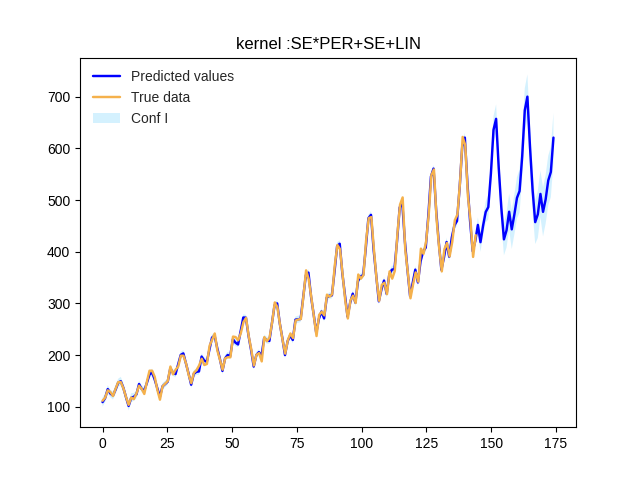
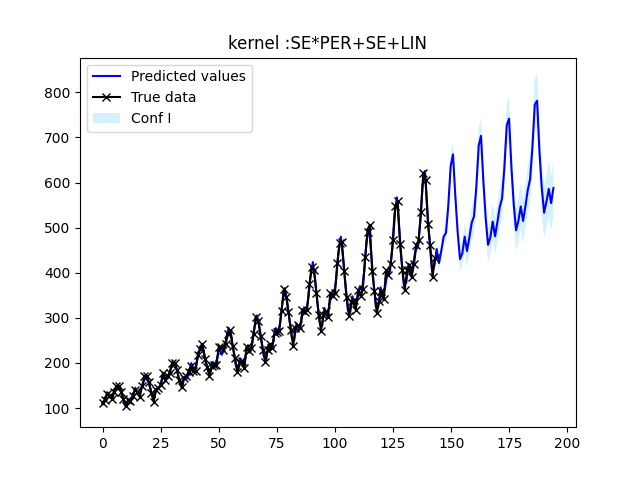
memory profilage

diff --git a/training.py b/training.py
@@ -225,8 +225,6 @@ def single_model(X_train,Y_train,X_s,kernel,OPTIMIZER=tf.optimizers.Adam(learnin
 
 
 
-
-
 def launch_analysis(X_train,Y_train,X_s,nb_restart=15,nb_iter=2,do_plot=False,save_model=False,prune=False,OPTIMIZER= tf.optimizers.Adam(0.001), \
                         verbose=False,nb_by_step=None,loop_size=10,experimental_multiprocessing=False,reduce_data=False,straigth=True,depth=5,initialisation_restart=5,GPY=False,mode="lfbgs",use_changepoint=False):
     '''
@@ -326,17 +324,25 @@ def griddy_search(X_train,Y_train,X_s,nb_restart,nb_iter,nb_by_step,i,prune,loop
                                     verbose,OPTIMIZER,initialisation_restart,GPY=GPY,depth=depth,mode=mode,parralelize_code=parralelize_code,use_changepoint=use_changepoint)
     return model,kernels
 
+
+def generator_params(X_train,Y_train,X_s,combi,BEST_MODELS,nb_restart,nb_iter,nb_by_step,prune,verbose,OPTIMIZER,initialisation_restart,GPY,mode) :
+    for comb in combi :
+        yield [X_train,Y_train,X_s,comb,BEST_MODELS,nb_restart,nb_iter,nb_by_step,prune,verbose,OPTIMIZER,mode,False,False,initialisation_restart,GPY]
+
 def parralelize(X_train,Y_train,X_s,combi,BEST_MODELS,nb_restart,nb_iter,nb_by_step,prune,verbose,OPTIMIZER,initialisation_restart,GPY,mode):
     ''' 
         Use class multiprocessing.dummies to multithread one step train , keep all the score of every models in order to compared them lately 
     '''
-    params = [[X_train,Y_train,X_s,comb,BEST_MODELS,nb_restart,nb_iter,nb_by_step,prune,verbose,OPTIMIZER,mode,False,False,initialisation_restart,GPY] for comb in combi]
+    params = generator_params(X_train,Y_train,X_s,combi,BEST_MODELS,nb_restart,nb_iter,nb_by_step,prune,verbose,OPTIMIZER,initialisation_restart,GPY,mode)
+
+    print("params","==============================",sys.getsizeof(params))
     pool = ThreadPool(3)
-    outputs = pool.starmap(search_step_parrallele,params)
+    for parameter in params :
+        outputs = pool.starmap(search_step_parrallele,params)
     pool.close()
     pool.join()
+    del pool 
     return outputs
-
 
 
 def straigth_analyse(X_train,Y_train,X_s,nb_restart,nb_iter,nb_by_step,i,prune,loop_size,verbose,OPTIMIZER,depth=5,initialisation_restart=10,GPY=False,mode="lfbgs",parralelize_code=False,use_changepoint=False):

diff --git a/plotting_utils.py b/plotting_utils.py
@@ -48,7 +48,7 @@ def make_df(X,stdp,stdi):
     return df 
     
 def plot_gs_pretty(true_data,mean,X_train,X_s,stdp,stdi,color="blue"):
-    plt.style.use('seaborn')
+    plt.style.use('seaborn-dark-palette')
     try :
         true_data,X_train,X_s = true_data.numpy(),X_train.numpy(),X_s.numpy()
         mean,stdp,stdi =  mean.numpy(),stdp.numpy(), stdi.numpy()
@@ -56,10 +56,10 @@ def plot_gs_pretty(true_data,mean,X_train,X_s,stdp,stdi,color="blue"):
         pass
     true_data,X_train,X_s =  true_data.reshape(-1),X_train.reshape(-1),X_s.reshape(-1)
     mean,stdp,stdi = mean.reshape(-1),stdp.reshape(-1),stdi.reshape(-1).reshape(-1) 
-    plt.style.use('seaborn')
+    plt.style.use('seaborn-dark-palette')
     plt.plot(X_s,mean,color="blue",label="Predicted values")
     plt.fill_between(X_s,stdp,stdi, facecolor=CB91_Blue, alpha=0.2,label="Conf I")
-    plt.plot(X_train,true_data,color=CB91_Amber,label="True data",marker="x")
+    plt.plot(X_train,true_data,color="black",label="True data",marker="x")
     plt.legend()    
     plt.show()
 

diff --git a/Regressor.py b/Regressor.py
@@ -14,13 +14,12 @@ import kernels as kernels
 import itertools
 from language import *
 from search import preparekernel,decomposekernel
-from kernels_utils import KERNELS_FUNCTIONS,GPY_KERNELS
+from kernels_utils import KERNELS_FUNCTIONS,GPY_KERNELS,KERNELS_LENGTH
 from termcolor import colored
 os.environ['TF_CPP_MIN_LOG_LEVEL'] = '3' 
 tf.keras.backend.set_floatx('float64')
 PI = m.pi
 _precision = tf.float64
-
 
 
 class CustomModel(object):
@@ -130,6 +129,7 @@ class CustomModel(object):
         cov_s  =  self._get_cov(X_train,X_s,kernels_name,params)
         mu,cov = self._compute_posterior(Y_train,cov,cov_s,cov_ss)
         return mu,cov
+
 
     def _get_cov(self,X,Y,kernel,params):
         params_name = list(params.keys())

diff --git a/main.py b/main.py
@@ -42,7 +42,7 @@ if __name__ =="__main__" :
     plt.show()"""
     #X_s = np.linspace(-20,20,len(X)+40).reshape(-1, 1)
     t0 = time.time()
-    model,kernel= launch_analysis(X,Y,X_s,straigth=True,do_plot=True,depth=5,verbose=True,initialisation_restart=10,reduce_data=False,experimental_multiprocessing=True,GPY=False,use_changepoint=False) #straight parameters == True
+    model,kernel= launch_analysis(X,Y,X_s,straigth=True,do_plot=True,depth=4,verbose=True,initialisation_restart=10,reduce_data=False,experimental_multiprocessing=True,GPY=False,use_changepoint=False) #straight parameters == True
     print('time took: {} seconds'.format(time.time()-t0))
     model.describe(kernel)
     mu,cov = model.predict(X,Y,X_s,kernel)
